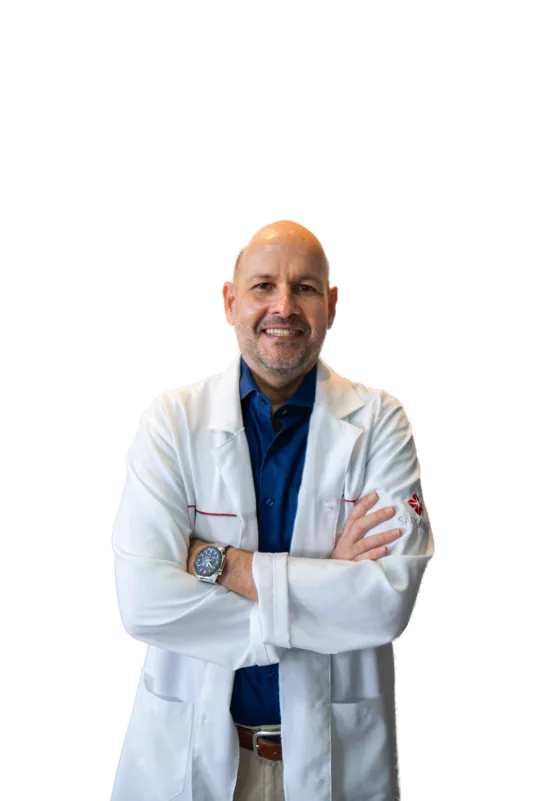
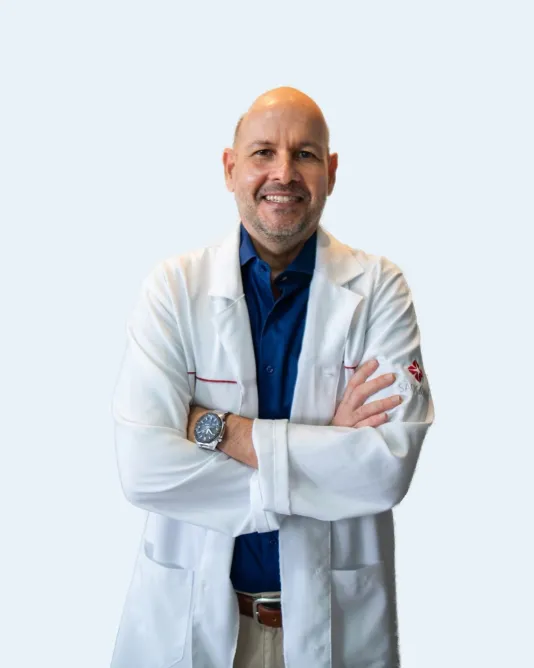
fix: reenquadra foto-herói da home para preencher o card
O hero-ricardo.jpg (1067x1600) tinha o médico só nos ~70% inferiores,
com faixa de espaço vazio acima da cabeça. Recorta os 267px do topo
nas 3 fontes (jpg/webp/mobile) -> 1067x1333 (proporção 4/5), ajusta
height do <img> para 1333 e object-position para "center top".
Head e mãos preservados; sem espaço flutuante em desktop e mobile.

diff --git a/app/page.tsx b/app/page.tsx
@@ -61,7 +61,7 @@ export default function HomePage() {
               src="/fotos/hero-ricardo.jpg"
               alt="Dr. Ricardo Reges, urologista em Fortaleza"
               width={1067}
-              height={1600}
+              height={1333}
               fetchPriority="high"
               decoding="async"
             />

diff --git a/app/globals.css b/app/globals.css
@@ -417,7 +417,7 @@ main { display: block; }
   width: 100%;
   aspect-ratio: 4 / 5;
   object-fit: cover;
-  object-position: center 18%;
+  object-position: center top;
 }
 /* Fotografias de corpo (retratos), sem moldura — só cantos e sombra suave. */
 .photo {
